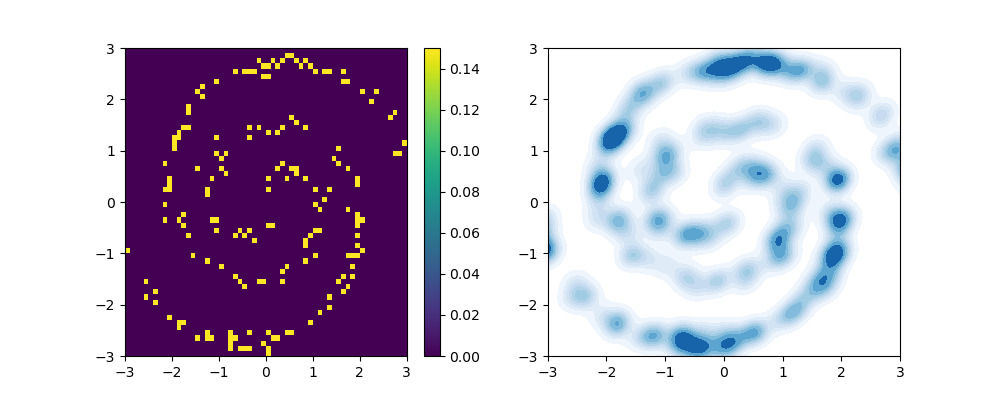
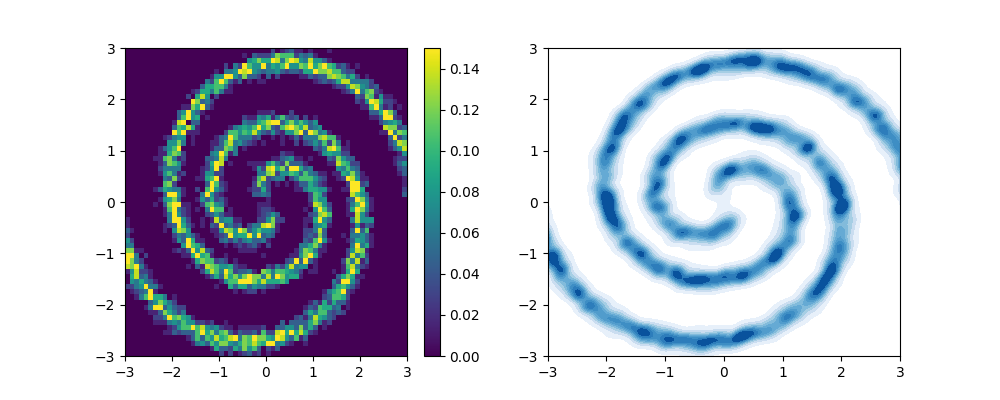
generic commit

diff --git a/scripts/transport/kvae_flow.py b/scripts/transport/kvae_flow.py
@@ -87,21 +87,13 @@ class Comp_transport_model:
 
 
     def map_mean(self, x_mu, y_eta, y_mean, Lambda_mean, X_mean, fit_kernel):
-        if self.approx:
-            y_mean = geq_1d(torch.tensor(y_mean, device=self.device, dtype=self.dtype))
-        else:
-            y_mean = deepcopy(y_eta)
         w_mean = torch.concat([x_mu, y_mean], dim=1)
         z_mean = fit_kernel(X_mean, w_mean).T @ Lambda_mean
         return z_mean
 
 
     def map_var(self, x_mu, y_eta, y_mean, Lambda_var, X_var, fit_kernel):
-        if self.approx:
-            y_mean = geq_1d(torch.tensor(y_mean, device=self.device, dtype=self.dtype))
-            return 0 * y_mean
-        else:
-            y_mean = deepcopy(y_eta)
+        if not self.approx:
             y_eta = shuffle(y_eta)
         w_var = torch.concat([x_mu, y_eta, y_mean], dim=1)
         Lambda_var = Lambda_var
@@ -132,9 +124,7 @@ class Comp_transport_model:
         z_var = self.map_var(x_mu, y_eta, y_mean, Lambda_var, X_var, fit_kernel)
         z = z_mean + z_var
 
-        y_approx = deepcopy(y_eta)
-        if self.approx:
-            y_approx = y_mean + y_var
+        y_approx = y_mean + y_var
         y_eta = self.noise_shrink_c * shuffle(y_eta)
 
         param_dict = {'y_eta': y_eta, 'y_mean': y_mean + z_mean, 'y_var': y_var + z_var, 'x_mu': x_mu,
@@ -274,11 +264,7 @@ class CondTransportKernel(nn.Module):
 
 
     def map_var(self, x_mu, y_eta, y_mean, y_var = []):
-        if self.approx:
-            y_mean = geq_1d(torch.tensor(y_mean, device=self.device, dtype=self.dtype))
-            return 0 * y_mean
-        else:
-            y_mean = deepcopy(y_eta)
+        if not self.approx:
             y_eta = shuffle(y_eta)
 
         y_mean = geq_1d(torch.tensor(y_mean, device=self.device, dtype=self.dtype))
@@ -297,13 +283,15 @@ class CondTransportKernel(nn.Module):
         y_mean = geq_1d(torch.tensor(y_mean, device=self.device, dtype=self.dtype))
         y_var = geq_1d(torch.tensor(y_var, device=self.device, dtype=self.dtype))
 
+        if not self.approx:
+            y_mean = deepcopy(y_eta)
+            y_var = 0 * y_mean
+
         z_mean = self.map_mean(x_mu, y_eta, y_mean)
         z_var = self.map_var(x_mu, y_eta, y_mean, y_var)
         z = z_mean + z_var
 
-        y_approx = deepcopy(y_eta)
-        if self.approx:
-            y_approx = y_mean + y_var
+        y_approx = y_mean + y_var
         y_eta = shuffle(y_eta)
         return_dict = {'y_eta': y_eta, 'y_mean': y_mean + z_mean, 'y_var': y_var + z_var,
                        'y_approx': y_approx + z, 'y': torch.concat([x_mu, z + y_approx], dim = 1)}
@@ -327,7 +315,7 @@ class CondTransportKernel(nn.Module):
 
 
     def loss_mmd(self):
-        map_vec = torch.concat([self.X_mu, self.Y_approx  + self.Z_mean +  self.Z_var * float(self.approx)], dim=1)
+        map_vec = torch.concat([self.X_mu, self.Y_approx  + self.Z_mean +  self.Z_var], dim=1)
         target = self.Y
 
         mmd_ZZ = self.mmd_kernel(map_vec, map_vec)
@@ -630,7 +618,7 @@ def elden_exp(N=10000, n_iter=101, exp_name='elden_exp', n_transports=55):
                                                          cond_model_trainer=comp_cond_kernel_transport,
                                                          idx_dict=idx_dict, skip_idx=skip_idx, plot_idx=plot_idx,
                                                          plt_range=plt_range, n_transports=n_transports)
-    return True
+    return trained_models
 
 
 def vl_exp(N=10000, n_iter=101, Yd=18, normal=True, exp_name='vl_exp'):
@@ -716,7 +704,7 @@ def run():
     target_gen = sample_spirals
     N = 3000
     two_d_exp(ref_gen, target_gen, N, n_iter=101, plt_range=[[-3, 3], [-3, 3]], process_funcs=[], skip_idx=1,
-              slice_vals=[0], slice_range=[-3, 3], exp_name='exp', n_transports=100, vmax=.15)
+              slice_vals=[0], slice_range=[-3, 3], exp_name='spiral_kflow', n_transports=100, vmax=.15)
 
 
 if __name__=='__main__':
